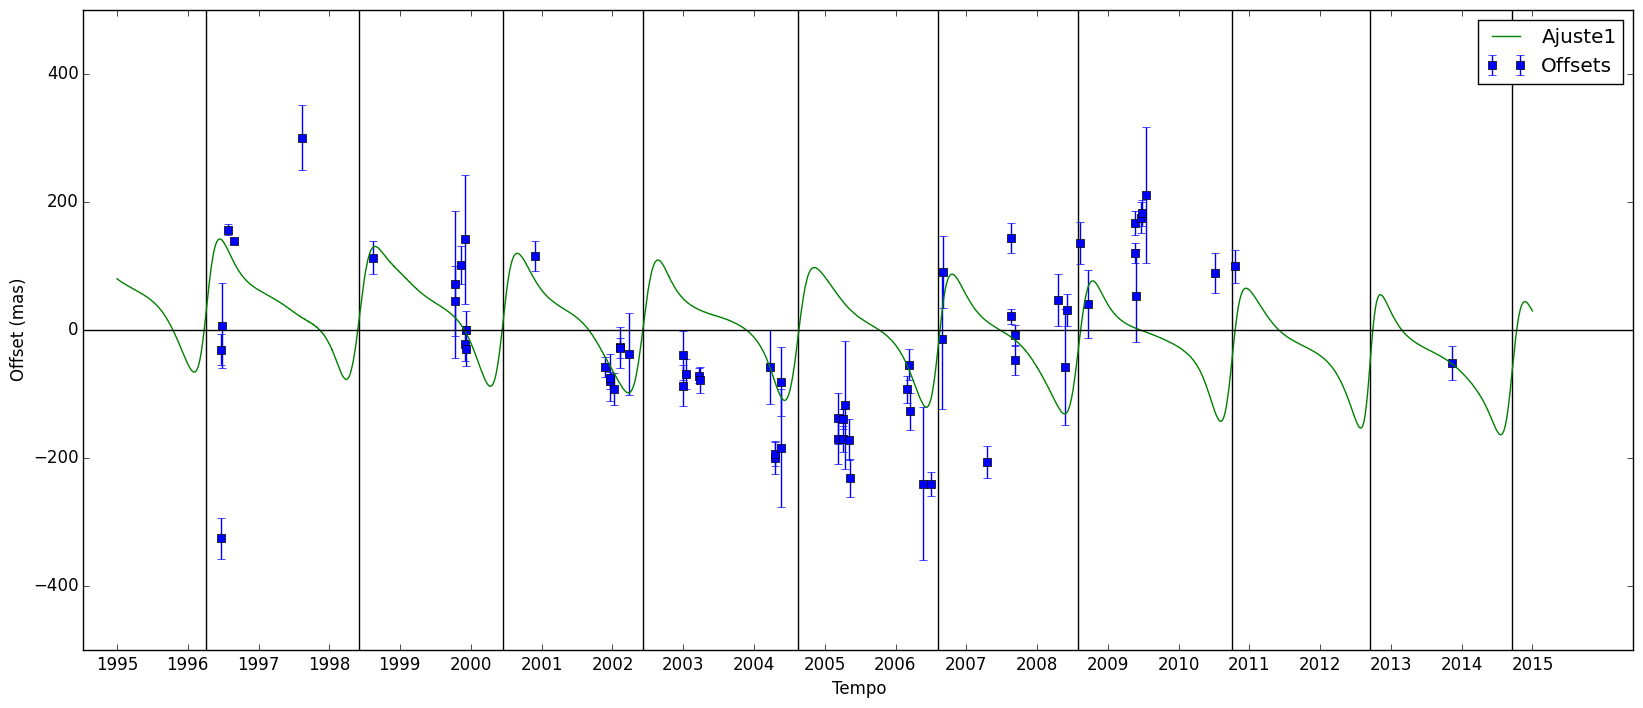
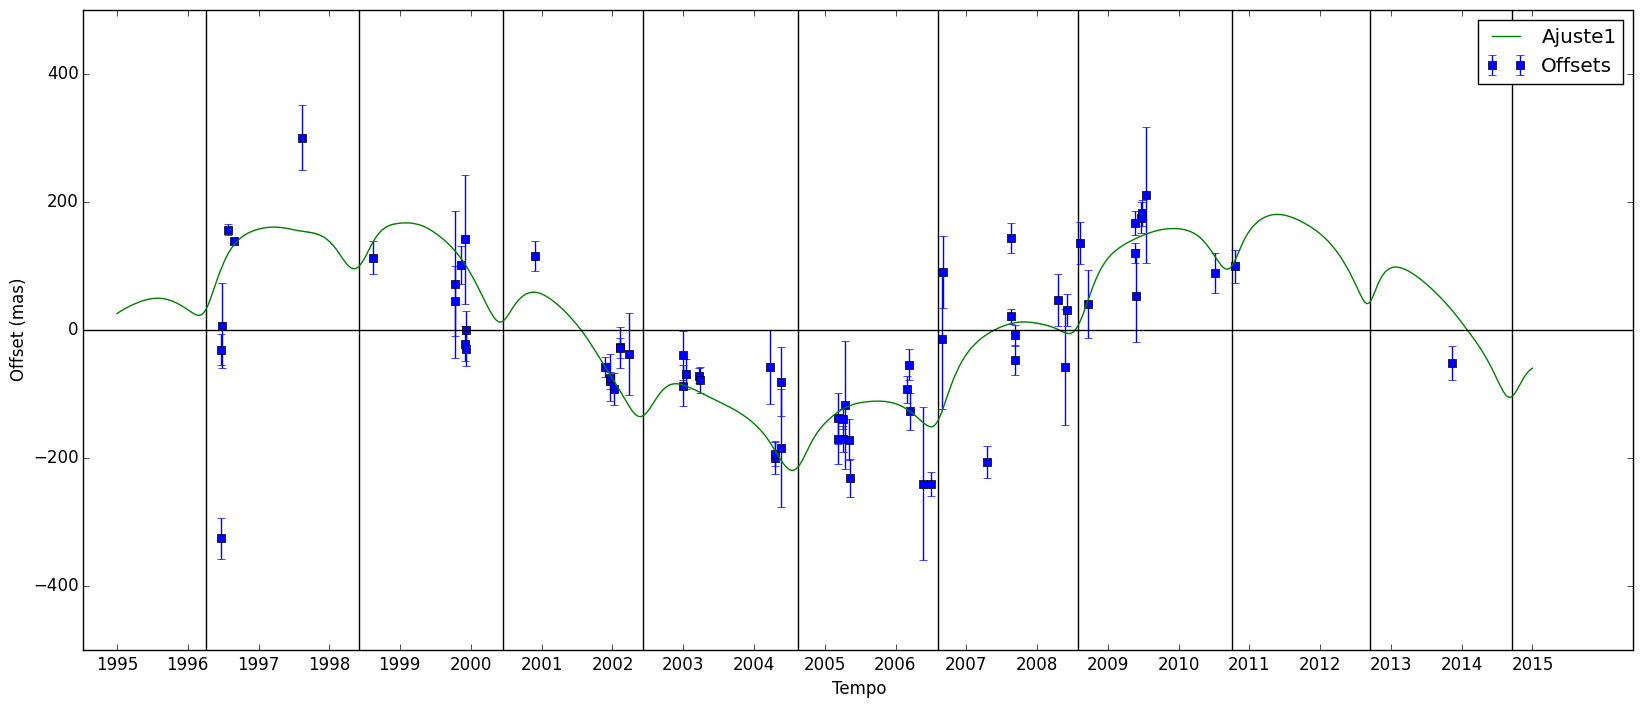
.

diff --git a/offset_irregular/Pasiphae/teste.py b/offset_irregular/Pasiphae/teste.py
@@ -45,6 +45,9 @@ def f3(B, x): ## tempo, sen^2, cos^2, seno*cos, sen, cos, constante
 def f4(B, x): ## tempo, sen^2, cos^2, seno*cos, sen, cos, constante
     return B[0]*(x[0] - 2451544.5) + (B[1]+B[2]*(x[0] - 2451544.5))*np.sin(x[1]*u.deg) + (B[3]+B[4]*(x[0] - 2451544.5))*np.cos(x[1]*u.deg) + B[5]
 
+def f5(B, x): ## tempo, seno, cosseno, constante
+    return B[0]*np.sin(2*np.pi*(1/(B[1]*365.25))*(x[0] - 2451544.5) + B[2]) + B[3]*np.sin(x[1]*u.deg) + B[4]*np.cos(x[1]*u.deg) + B[5]
+
 
 ############## Declinacao ############################################
 
@@ -100,10 +103,10 @@ q = np.linalg.lstsq(g2, z[0])
 
 x = np.vstack([y[0], y[3]])
 
-linearra = odrpack.Model(f2)
+linearra = odrpack.Model(f5)
 #mydata = odrpack.Data(x, z[1], wd=1./np.power(z[2],2), we=1./np.power(sy,2))
 mydatara = odrpack.RealData(x, z[0], sy=z[2])
-myodrra = odrpack.ODR(mydatara, linearra, beta0=q[0])
+myodrra = odrpack.ODR(mydatara, linearra, beta0=[200.0, 11.8, 0.0, 1.0, 1.0, 1.0])
 myodrra.set_job(fit_type=2)
 myoutputra = myodrra.run()
 print '\n\nAscensao Reta\n'
@@ -114,7 +117,7 @@ myoutputra.pprint()
 
 plt.errorbar(y[0] - 2451544.5, z[0], yerr=z[2], fmt='s', label='Offsets')
 #plt.plot(y[3], z[0], 's', label='Offsets')
-plt.plot(eph[0] - 2451544.5, f2(myodrra.output.beta, np.vstack([eph[0], eph[1]])), label='Ajuste1')
+plt.plot(eph[0] - 2451544.5, f5(myodrra.output.beta, np.vstack([eph[0], eph[1]])), label='Ajuste1')
 #plt.plot(eph[0] - 2451544.5, g(q[0], np.vstack([eph[0], eph[1]])), label='Ajuste2')
 #plt.title('RA = {:.2f}*sen^2(A.V.) + {:.2f}*cos^2(A.V.) + {:.2f}*sen(A.V.)*cos(A.V.) + {:.2f}*sen(A.V.) + {:.2f}*cos(A.V.) + {:.2f}'.format(q[0][0], q[0][1], q[0][2], q[0][3], q[0][4], q[0][5]))
 #plt.xlim(0,360)
